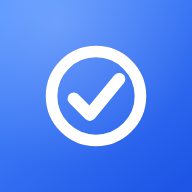
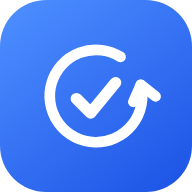
v3.4.1: 改名「成事」，新图标
Claude-Session: https://claude.ai/code/session_011jT64PgxemACb2ig9Lm8GE

diff --git a/app/src/main/assets/index.html b/app/src/main/assets/index.html
@@ -4,10 +4,10 @@
   <meta charset="UTF-8" />
   <meta name="viewport" content="width=device-width, initial-scale=1, viewport-fit=cover" />
   <meta name="theme-color" content="#f5f7fb" />
-  <meta name="description" content="Persist，一款轻盈、专注的习惯打卡应用。" />
+  <meta name="description" content="成事，一款轻盈、专注的待办与习惯打卡应用。" />
   <link rel="manifest" href="manifest.json" />
   <link rel="icon" href="icon.svg" type="image/svg+xml" />
-  <title>Persist · 把小事做成日常</title>
+  <title>成事 · 把想做的事做成</title>
   <style>
     :root {
       --bg: #f5f6f1;
@@ -1365,7 +1365,7 @@
     .wheel-i.on { color: var(--ink); font-weight: 750; font-size: 16.5px; }
     .wheel-band { position: absolute; z-index: 1; left: 0; right: 0; top: 36px; height: 36px; border-radius: 11px; background: rgba(44,98,238,.10); pointer-events: none; }
     .wheel-wrap { position: relative; margin-top: 6px; } .wheel-wrap .wheel { margin-top: 0; }
-    /* 3.4.0：自绘日期/时间选择、重复一行、排序、更顺的动画 */
+    /* 3.4.1：自绘日期/时间选择、重复一行、排序、更顺的动画 */
     .tf-pick { display: block; width: 100%; box-sizing: border-box; margin-top: 4px; height: 38px; border: 1px solid var(--line); border-radius: 11px; background: var(--surface-soft); padding: 0 12px; font: inherit; font-size: 14px; font-weight: 650; color: #8D99B3; text-align: left; transition: scale .25s cubic-bezier(.34,1.5,.64,1); }
     .tf-pick.set { color: var(--ink); } .tf-pick:active { scale: .97; }
     #tfRepRow { margin: 8px 0 0; } #tfRepRow[hidden] { display: none; }
@@ -1470,7 +1470,7 @@
     <header class="topbar">
       <div class="brand">
         <div class="brand-mark" aria-hidden="true"><svg viewBox="0 0 24 24" fill="none" stroke="currentColor" stroke-width="2.3" stroke-linecap="round" stroke-linejoin="round"><circle cx="12" cy="12" r="8.6"/><path d="M8.2 12.4l2.7 2.7 5-5.8"/></svg></div>
-        <div><div class="brand-name">Persist</div><div class="brand-sub">MAKE IT A ROUTINE</div></div>
+        <div><div class="brand-name">成事</div><div class="brand-sub">GET IT DONE</div></div>
       </div>
       <div class="top-actions"></div>
     </header>
@@ -1512,7 +1512,7 @@
         <section class="page" id="page-settings">
           <div class="page-header"><div><div class="eyebrow">MAKE IT YOURS</div><h1>设置</h1><p class="subheading"></p></div></div>
           <div class="settings-group"><div class="settings-title">账号</div><div class="settings-panel"><div id="accOut"><button type="button" class="settings-row" id="accLogin"><span class="settings-ico"><svg viewBox="0 0 24 24" fill="none" stroke="currentColor" stroke-width="1.8" stroke-linecap="round" stroke-linejoin="round"><circle cx="12" cy="8.5" r="3.6"/><path d="M5 20c.8-3.6 3.6-5.4 7-5.4s6.2 1.8 7 5.4"/></svg></span><span class="settings-copy"><strong>登录 / 注册</strong><small>登录后数据自动同步，换手机也不会丢</small></span><span class="chevron">›</span></button></div><div id="accIn" hidden><div class="settings-row"><span class="settings-ico"><svg viewBox="0 0 24 24" fill="none" stroke="currentColor" stroke-width="1.8" stroke-linecap="round" stroke-linejoin="round"><circle cx="12" cy="8.5" r="3.6"/><path d="M5 20c.8-3.6 3.6-5.4 7-5.4s6.2 1.8 7 5.4"/></svg></span><span class="settings-copy"><strong id="accEmail"></strong><small id="accStatus"></small></span></div><button type="button" class="settings-row" id="accSync"><span class="settings-ico"><svg viewBox="0 0 24 24" fill="none" stroke="currentColor" stroke-width="1.8" stroke-linecap="round" stroke-linejoin="round"><path d="M20 11a8 8 0 0 0-14-4.5L4 9M4 4v5h5M4 13a8 8 0 0 0 14 4.5L20 15M20 20v-5h-5"/></svg></span><span class="settings-copy"><strong>立即同步</strong></span></button><button type="button" class="settings-row" id="accLogout"><span class="settings-ico"><svg viewBox="0 0 24 24" fill="none" stroke="currentColor" stroke-width="1.8" stroke-linecap="round" stroke-linejoin="round"><path d="M9 4H6a2 2 0 0 0-2 2v12a2 2 0 0 0 2 2h3M15 8l4 4-4 4M19 12H9"/></svg></span><span class="settings-copy"><strong>退出登录</strong></span></button></div></div></div><div class="settings-group" id="remGroup" hidden><div class="settings-title">提醒</div><div class="settings-panel"><button type="button" class="settings-row" id="remToggle" role="switch" aria-checked="false"><span class="settings-ico"><svg viewBox="0 0 24 24" fill="none" stroke="currentColor" stroke-width="1.8" stroke-linecap="round" stroke-linejoin="round"><path d="M6 16V11a6 6 0 0 1 12 0v5l1.5 2h-15zM10 20.5a2 2 0 0 0 4 0"/></svg></span><span class="settings-copy"><strong>每日提醒</strong><small id="remSub">关闭</small></span><span class="switch" id="remSwitch"></span></button><label class="settings-row" id="remTimeRow" hidden><span class="settings-ico"><svg viewBox="0 0 24 24" fill="none" stroke="currentColor" stroke-width="1.8" stroke-linecap="round" stroke-linejoin="round"><circle cx="12" cy="12" r="8.5"/><path d="M12 7.5V12l3 2"/></svg></span><span class="settings-copy"><strong>提醒时间</strong><small>还有没完成的习惯时才提醒</small></span><input type="time" id="remTime" class="rem-time" value="21:00" /></label></div></div><div class="settings-group"><div class="settings-title">数据管理</div><div class="settings-panel"><button class="settings-row" id="exportData"><span class="settings-ico"><svg viewBox="0 0 24 24" fill="none" stroke="currentColor" stroke-width="1.8" stroke-linecap="round"><path d="M12 15V3m-4 4 4-4 4 4M4 14v5a2 2 0 0 0 2 2h12a2 2 0 0 0 2-2v-5"/></svg></span><span class="settings-copy"><strong>导出打卡数据</strong><small>保存为 JSON 文件，方便备份</small></span><span class="chevron">›</span></button><button class="settings-row" id="importData"><span class="settings-ico"><svg viewBox="0 0 24 24" fill="none" stroke="currentColor" stroke-width="1.8" stroke-linecap="round" stroke-linejoin="round"><path d="M12 3v12m-4-4 4 4 4-4M4 14v5a2 2 0 0 0 2 2h12a2 2 0 0 0 2-2v-5"/></svg></span><span class="settings-copy"><strong>导入备份</strong><small>从 JSON 备份文件恢复，会替换当前数据</small></span><span class="chevron">›</span></button><input id="importFileInput" type="file" accept="application/json,.json" hidden /><button class="settings-row" id="clearData"><span class="settings-ico" style="color:var(--danger)"><svg viewBox="0 0 24 24" fill="none" stroke="currentColor" stroke-width="1.8" stroke-linecap="round"><path d="M4 7h16M10 11v6M14 11v6M5.5 7l1 13h11l1-13M9 7V4h6v3"/></svg></span><span class="settings-copy"><strong>清空所有数据</strong><small>删除本机保存的习惯、打卡记录和待办</small></span><span class="chevron">›</span></button></div></div>
-          <div class="about-card"><div class="about-logo" aria-hidden="true"><svg viewBox="0 0 24 24" fill="none" stroke="currentColor" stroke-width="1.7" stroke-linecap="round" stroke-linejoin="round"><circle cx="12" cy="12" r="8.6"/><path d="M8.2 12.4l2.7 2.7 5-5.8"/></svg></div><strong>Persist · 把小事做成日常</strong><p>版本 3.4.0 · 轻盈、专注、可持续<br/>数据保存在这台手机上，建议定期在设置里导出备份。<br/>图标库来自 Lucide（ISC 开源许可）。</p></div>
+          <div class="about-card"><div class="about-logo" aria-hidden="true"><svg viewBox="0 0 24 24" fill="none" stroke="currentColor" stroke-width="1.7" stroke-linecap="round" stroke-linejoin="round"><circle cx="12" cy="12" r="8.6"/><path d="M8.2 12.4l2.7 2.7 5-5.8"/></svg></div><strong>成事 · 把想做的事做成</strong><p>版本 3.4.1 · 轻盈、专注、可持续<br/>数据保存在这台手机上，建议定期在设置里导出备份。<br/>图标库来自 Lucide（ISC 开源许可）。</p></div>
         </section>
       </main>
     </div>
@@ -2408,7 +2408,7 @@ const LIB_SVG={"star":"<path d=\"M11.525 2.295a.53.53 0 0 1 .95 0l2.31 4.679a2.1
         $('habitList').classList.remove('sorting');
       }
       function exportData() {
-        const payload={app:'Persist',version:'3.4.0',exportedAt:new Date().toISOString(),habits:data.habits,checks:data.checks,todos:data.todos||[],lists:data.lists||[],settings};
+        const payload={app:'Persist',version:'3.4.1',exportedAt:new Date().toISOString(),habits:data.habits,checks:data.checks,todos:data.todos||[],lists:data.lists||[],settings};
         const fileName=`Persist-backup-${todayKey}.json`;
         // 原生 App 里 WebView 不支持 blob 下载，交给原生弹出系统的「保存到」选择器；结果通过 __RIHENGNativeEvent 回报
         if(window.RiHengNative && typeof window.RiHengNative.exportBackup==='function') { try { window.RiHengNative.exportBackup(fileName,JSON.stringify(payload,null,2)); return; } catch(e) {} }

diff --git a/app/src/main/java/com/riheng/app/Reminder.kt b/app/src/main/java/com/riheng/app/Reminder.kt
@@ -70,7 +70,7 @@ object Reminder {
         )
         val n = android.app.Notification.Builder(c, CHANNEL)
             .setSmallIcon(R.drawable.ic_stat_check)
-            .setContentTitle("Persist")
+            .setContentTitle("成事")
             .setContentText("今天还剩 $left 项没完成")
             .setContentIntent(open)
             .setAutoCancel(true)

diff --git a/README.md b/README.md
@@ -1,4 +1,4 @@
-# Persist
+# 成事（Persist）
 
 [![最新版本](https://img.shields.io/github/v/release/zhbYouth/Persist?label=%E6%9C%80%E6%96%B0%E7%89%88%E6%9C%AC)](../../releases/latest)
 
@@ -18,7 +18,7 @@
 到 **[Releases](../../releases/latest)** 下载最新的 `Persist-x.y.z.apk` 安装。升级直接覆盖安装，数据不会丢（包名 `com.riheng.app` 与签名保持不变）。
 每次推送到 `main`，GitHub Actions 会自动构建并发布新的 Release。
 
-添加小组件：长按桌面空白处 → 小组件 → 搜索「Persist」。
+添加小组件：长按桌面空白处 → 小组件 → 搜索「成事」。
 
 ## 技术说明
 主界面是 WebView 加载的单页应用（`app/src/main/assets/index.html`），桌面小组件、提醒和文件导出由原生 Kotlin 实现。云同步使用 Supabase（邮箱登录 + 一张按用户隔离的表，建表 SQL 见 [docs/supabase.sql](docs/supabase.sql)）。

diff --git a/CHANGELOG.md b/CHANGELOG.md
@@ -2,6 +2,9 @@
 
 最新版本与下载见 [Releases](../../releases)。以下是历史版本的详细说明（旧版的宠物系统已在 v2.0.0 移除）。
 
+## 3.4.1
+- 应用改名「成事」，换新图标（圆环循环箭头 + 对勾）；桌面名称、小组件、通知标题同步更新。
+
 ## 3.4.0
 - 新增「打卡统计」二层界面（打卡页右上角柱状图按钮）：每个习惯的累计打卡天数、最长连续天数。
 - 待办完成 / 撤销完成的动画重做：圆圈弹一下打勾，整行再平滑收起，下面的行顺势上移。
